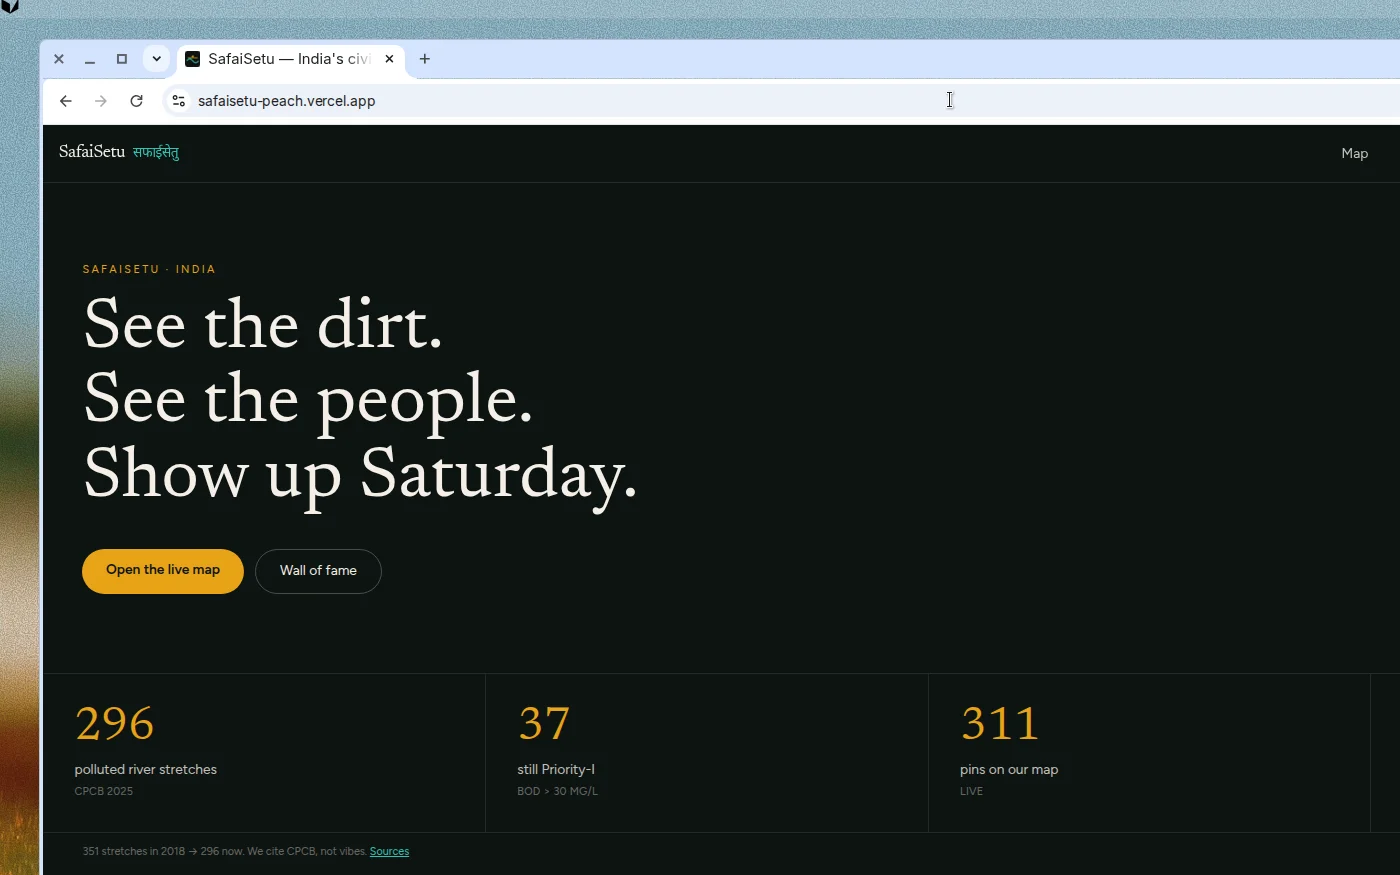
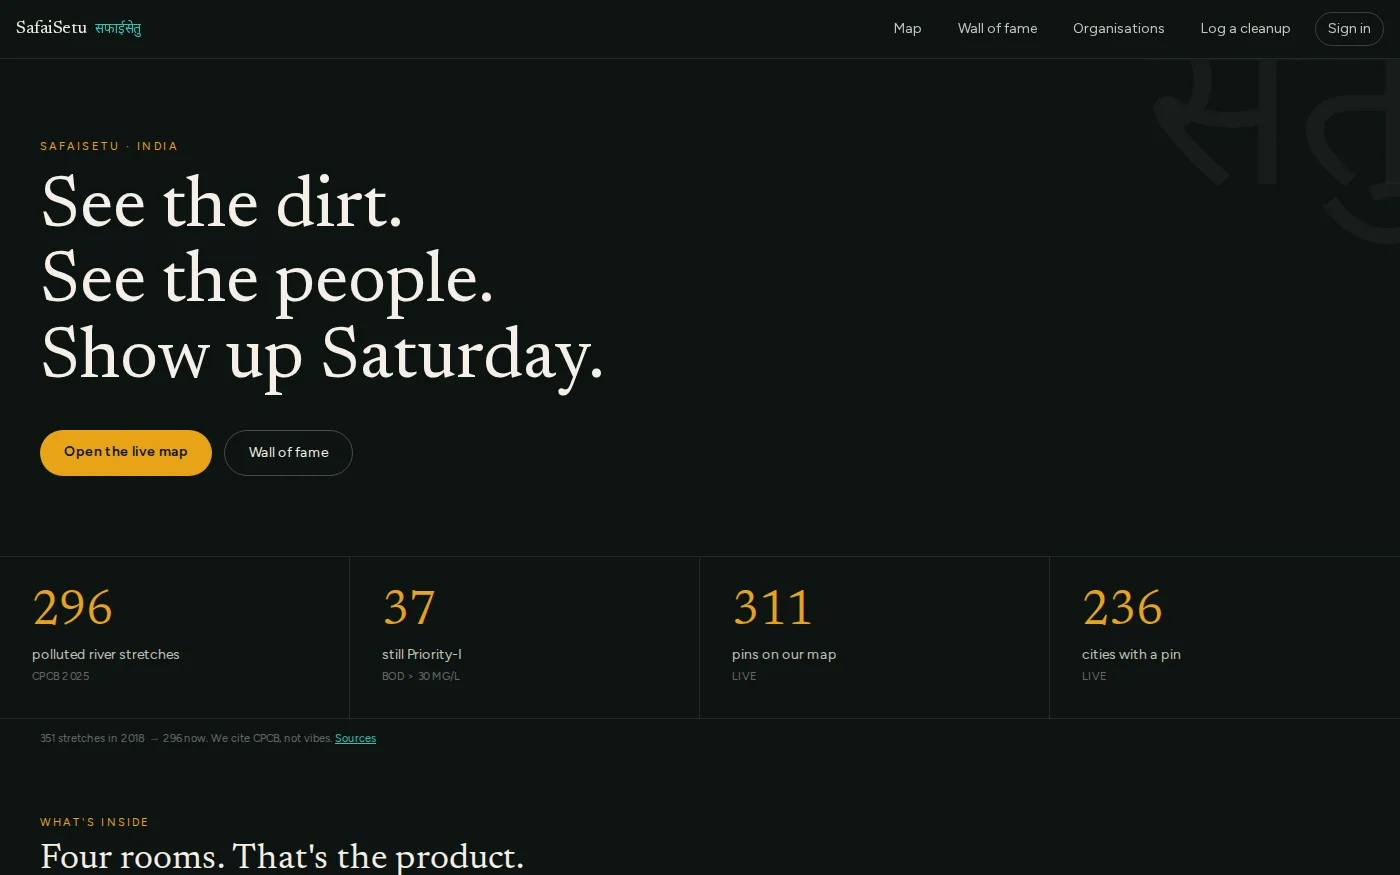
Fix SafaiSetu screenshots to match above-the-fold framing of other projects (#5)
- Replace full-page captures with tight hero viewport crop at 1400×875
- Capture shows only landing hero with tagline, CTAs, and statistics
- Update alt text to reflect hero content instead of map interface
- Matches framing convention of Pipeline, Moviefy, and other project cards

diff --git a/src/lib/projects.ts b/src/lib/projects.ts
@@ -70,7 +70,7 @@ export const projects: Project[] = [
     description:
       "A live, map-centered hub for India's civic cleanup movement: track river health, discover cleanup organizations, and join this weekend's drives.",
     image: "/safaisetu.webp",
-    alt: "SafaiSetu map interface showing cleanup locations and environmental initiatives across India",
+    alt: "SafaiSetu homepage hero with live statistics and map access call to action",
     width: 1400,
     height: 875,
     services: ["Product design", "Interactive mapping", "Full-stack build"],
